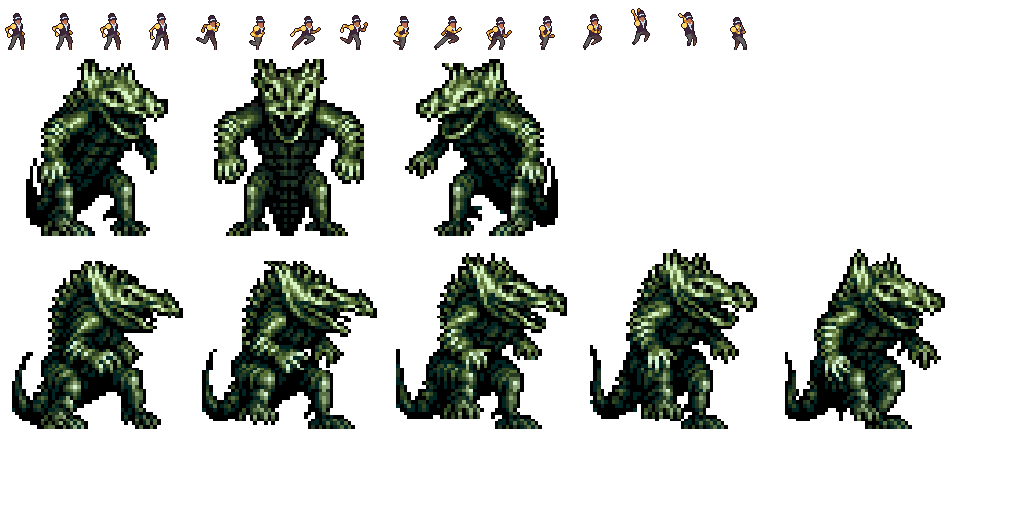
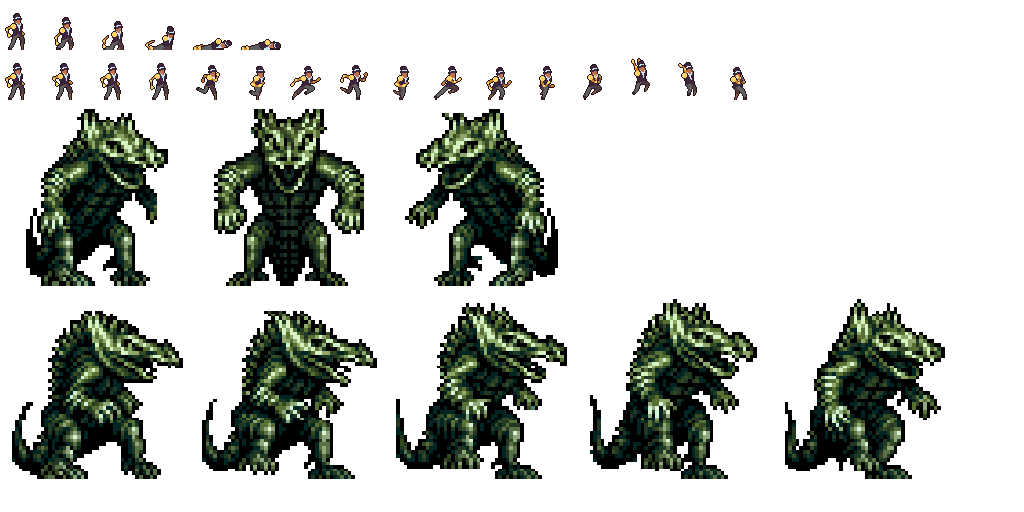
character death added

diff --git a/core/src/com/game2d/game/Entities/Hero.java b/core/src/com/game2d/game/Entities/Hero.java
@@ -6,9 +6,12 @@ import com.badlogic.gdx.audio.Music;
 import com.badlogic.gdx.graphics.g2d.Animation;
 import com.badlogic.gdx.graphics.g2d.Sprite;
 import com.badlogic.gdx.graphics.g2d.TextureRegion;
+import com.badlogic.gdx.math.Vector2;
 import com.badlogic.gdx.physics.box2d.Body;
 import com.badlogic.gdx.physics.box2d.BodyDef;
 import com.badlogic.gdx.physics.box2d.CircleShape;
+import com.badlogic.gdx.physics.box2d.Filter;
+import com.badlogic.gdx.physics.box2d.Fixture;
 import com.badlogic.gdx.physics.box2d.FixtureDef;
 import com.badlogic.gdx.physics.box2d.World;
 import com.badlogic.gdx.utils.Array;
@@ -17,16 +20,18 @@ import com.game2d.game.Game2D;
 
 public class Hero extends Sprite {
 
-    public enum State {FALL,JUMP,STAND,RUN};
+    public enum State {FALL,JUMP,STAND,RUN,DEAD};
     public State currentState;
     public State previousState;
     public World world;
     private TextureRegion heroidle;
+    private TextureRegion characterDead;
     public Body body;
     private Animation<TextureRegion> characterRun;
     private Animation<TextureRegion> characterJump;
     private float stateTimer;
     private boolean runRight;
+    private boolean characterisdead;
 
     private Music music;
     public Hero (PlayerScreen screen){
@@ -49,6 +54,8 @@ public class Hero extends Sprite {
             frames.add(new TextureRegion(getTexture(),i*48,0,48,48));
         }
         characterJump = new Animation(0.1f,frames);
+        characterDead = new TextureRegion(screen.getAtlas().findRegion("deadhero"), 1, 1, 48, 48);
+
 
         defineHero();
         heroidle= new TextureRegion(getTexture(), 1, 1, 48, 48);
@@ -67,6 +74,9 @@ public class Hero extends Sprite {
         currentState = getState();
         TextureRegion region;
         switch(currentState){
+            case DEAD:
+                region = characterDead;
+                break;
             case JUMP:
                 music = Game2D.assetManager.get("Sounds/Jump.ogg", Music.class);
                 music.setVolume(0.5f);
@@ -97,7 +107,10 @@ public class Hero extends Sprite {
     }
 
     public State getState(){
-        if(body.getLinearVelocity().y>0 ||(body.getLinearVelocity().y<0 && previousState == State.JUMP)){
+        if(characterisdead){
+            return State.DEAD;
+        }
+        else if(body.getLinearVelocity().y>0 ||(body.getLinearVelocity().y<0 && previousState == State.JUMP)){
             return State.JUMP;
         } else if(body.getLinearVelocity().y<0){
             return State.FALL;
@@ -106,6 +119,17 @@ public class Hero extends Sprite {
         }else {
             return State.STAND;
         }
+    }
+
+    public void hit(){
+        Game2D.assetManager.get("Sounds/Soundtrack.ogg", Music.class).stop();
+        //Game2D.assetManager.get(
+        characterisdead = true;
+        Filter filter = new Filter();
+        filter.maskBits = Game2D.NOTHINGBIT;
+        for(Fixture fixture : body.getFixtureList()){
+            fixture.setFilterData(filter);
+        } body.applyLinearImpulse(new Vector2(0,4f), body.getWorldCenter(), true);
     }
     private void defineHero() {
         BodyDef bodyDef = new BodyDef();

diff --git a/core/src/com/game2d/game/Displays/PlayerScreen.java b/core/src/com/game2d/game/Displays/PlayerScreen.java
@@ -91,15 +91,18 @@ public class PlayerScreen implements Screen {
     }
 
     public void controlInput(float deltatime){
-        if(Gdx.input.isKeyJustPressed(Input.Keys.SPACE)){
-            player.body.applyLinearImpulse(new Vector2(0,9f), player.body.getWorldCenter(), true);
+        if(player.currentState != Hero.State.DEAD){
+            if(Gdx.input.isKeyJustPressed(Input.Keys.SPACE)){
+                player.body.applyLinearImpulse(new Vector2(0,9f), player.body.getWorldCenter(), true);
+            }
+            if(Gdx.input.isKeyPressed(Input.Keys.RIGHT) && player.body.getLinearVelocity().x<=3){
+                player.body.applyLinearImpulse(new Vector2(2f,0), player.body.getWorldCenter(),true);
+            }
+            if(Gdx.input.isKeyPressed(Input.Keys.LEFT) && player.body.getLinearVelocity().x>=-3){
+                player.body.applyLinearImpulse(new Vector2(-2f,0), player.body.getWorldCenter(),true);
+            }
         }
-        if(Gdx.input.isKeyPressed(Input.Keys.RIGHT) && player.body.getLinearVelocity().x<=3){
-            player.body.applyLinearImpulse(new Vector2(2f,0), player.body.getWorldCenter(),true);
-        }
-        if(Gdx.input.isKeyPressed(Input.Keys.LEFT) && player.body.getLinearVelocity().x>=-3){
-            player.body.applyLinearImpulse(new Vector2(-2f,0), player.body.getWorldCenter(),true);
-        }
+
 
     }
     public void update(float deltatime){
@@ -108,6 +111,9 @@ public class PlayerScreen implements Screen {
         player.update(deltatime);
         for(Monster monster : worldCreator.getDragons()){
             monster.update(deltatime);
+        }
+        if(player.currentState != Hero.State.DEAD){
+            camera.position.x = player.body.getPosition().x;
         }
 
         camera.position.x = player.body.getPosition().x;

diff --git a/core/src/com/game2d/game/Miscellaneous/WorldContactListener.java b/core/src/com/game2d/game/Miscellaneous/WorldContactListener.java
@@ -8,6 +8,7 @@ import com.badlogic.gdx.physics.box2d.Fixture;
 import com.badlogic.gdx.physics.box2d.FixtureDef;
 import com.badlogic.gdx.physics.box2d.Manifold;
 import com.game2d.game.Entities.Dragon;
+import com.game2d.game.Entities.Hero;
 import com.game2d.game.Entities.InteractiveObject;
 import com.game2d.game.Entities.Monster;
 import com.game2d.game.Game2D;
@@ -47,7 +48,12 @@ public class WorldContactListener implements ContactListener {
                 }
                 break;
             case Game2D.HEROBIT | Game2D.MONSTERBIT:
-                Gdx.app.log("HERO", "DEAD");
+                if (fixA.getFilterData().categoryBits == Game2D.HEROBIT){
+                    ((Hero)fixA.getUserData()).hit();
+                }
+                else {
+                    ((Hero)fixB.getUserData()).hit();
+                }
                 break;
 
             case Game2D.MONSTERBIT | Game2D.MONSTERBIT:

diff --git a/core/src/com/game2d/game/Entities/Monster.java b/core/src/com/game2d/game/Entities/Monster.java
@@ -15,7 +15,7 @@ public abstract class Monster extends Sprite {
         this.world= screen.getWorld();
         this.screen= screen;
         setPosition(x,y);
-        velocity = new Vector2(1, 0);
+        velocity = new Vector2(2, 0);
         defineMonster();
     }
     public abstract void hitHead();

diff --git a/core/src/com/game2d/game/Game2D.java b/core/src/com/game2d/game/Game2D.java
@@ -21,6 +21,7 @@ public class Game2D extends Game {
 	public static final short TREEBIT= 32;
 	public static final short MONSTERBIT= 64;
 	public static final short MONSTERHEADBIT = 128;
+	public static final short NOTHINGBIT = 0;
 
 	public SpriteBatch batch;
 
